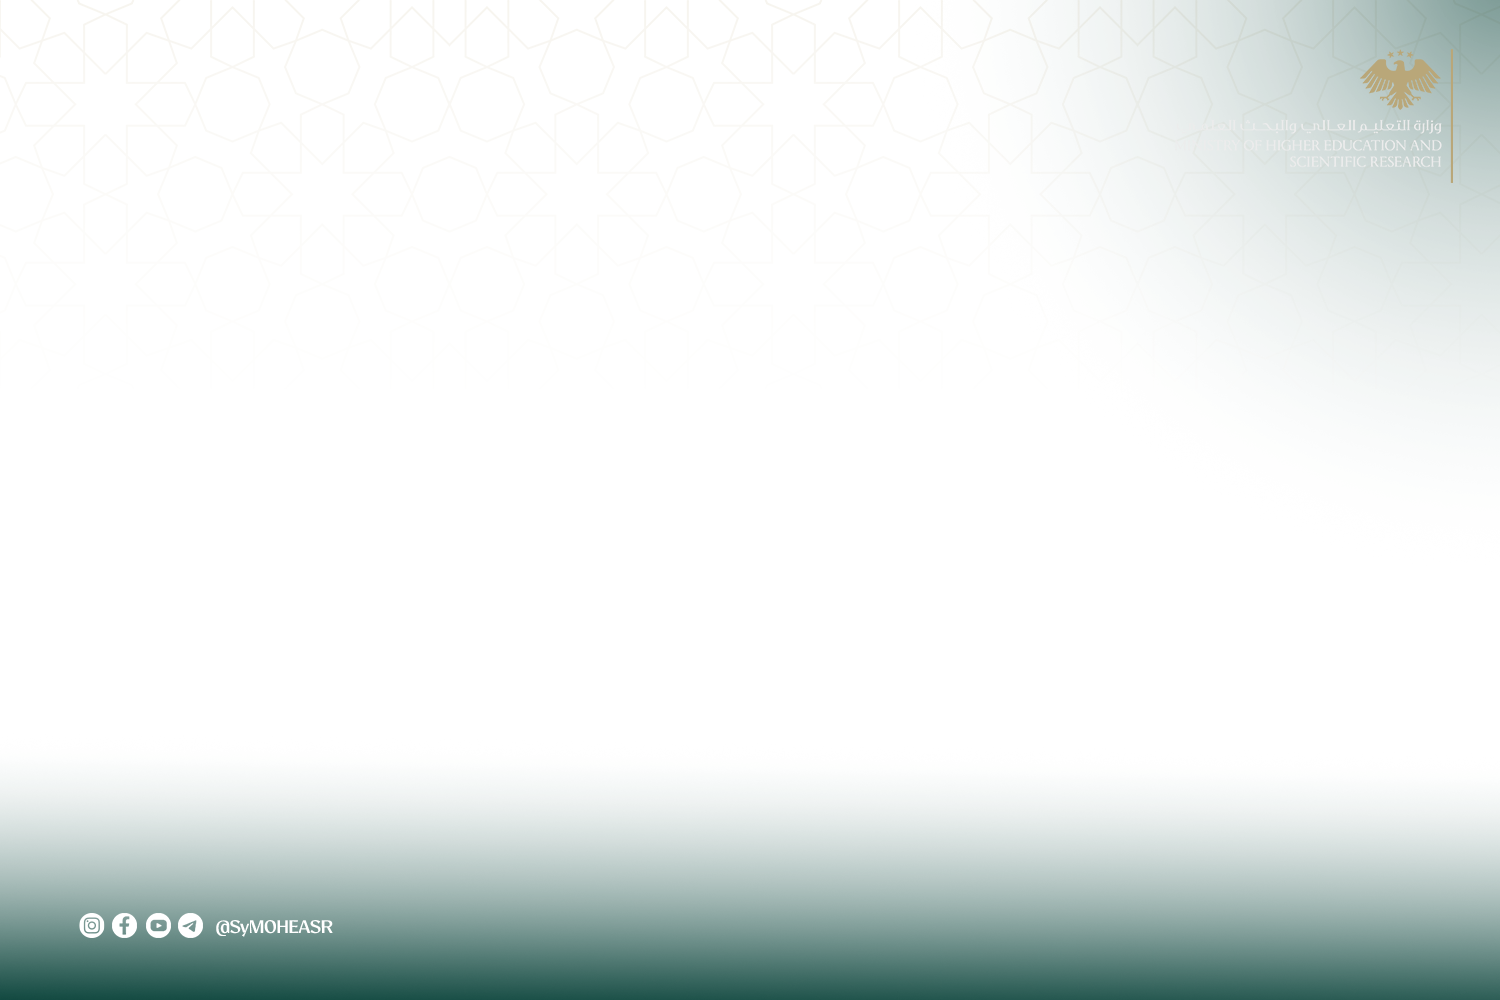
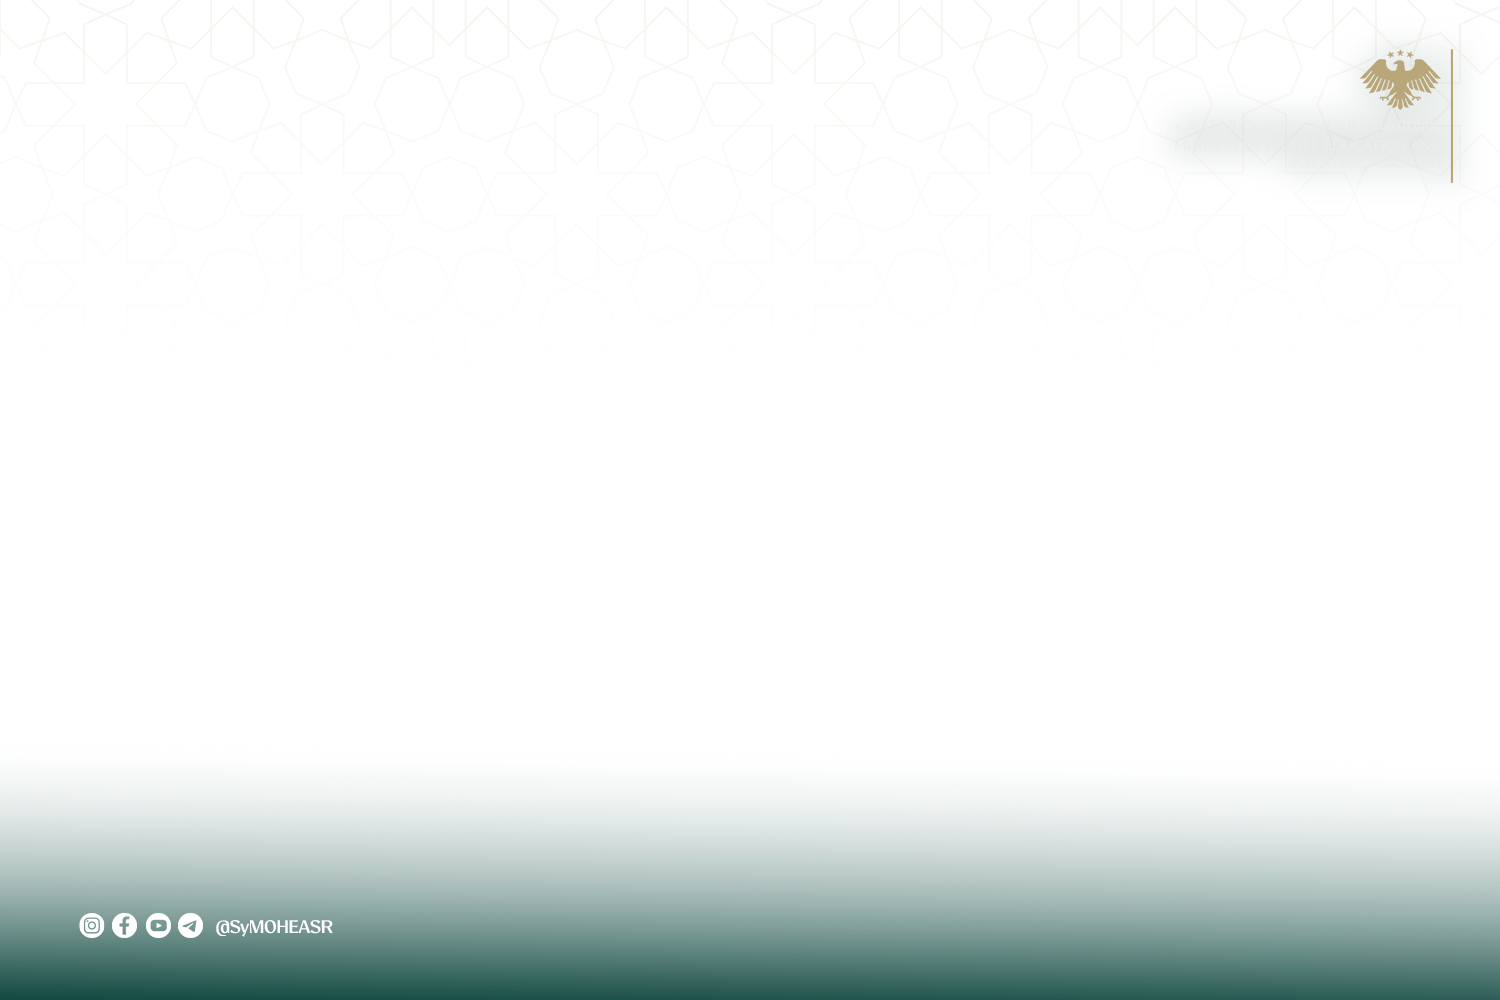
حتى 25 صورة، القالب الأفقي الجديد، وتحريك حر لصورة الغلاف (fit افتراضياً)
- CONFIG.maxPhotos = 25
- templates/landscape.png: نسخة المستخدم الجديدة (ظل خلف الشعار بدل تدرّج الزاوية)
- صورة الغلاف: fit افتراضياً، سحب حر، تكبير حتى ×5، والفراغ بخلفية ضبابية
- رفع ?v=10 وتحديث التوثيق

Changed region(s): [[0.7667, 0.0, 1.0, 0.341]]

diff --git a/app.js b/app.js
@@ -4,7 +4,7 @@
    الإعدادات
    ===================================================================== */
 const CONFIG = {
-  maxPhotos: 10,
+  maxPhotos: 25,
   jpegQuality: 0.92,
   telegram: {
     botToken: '8320697814:AAHELbyqp_6TiTbcJ-yjTWXx1qW9ySbS3yk',
@@ -116,21 +116,32 @@ const ICONS = {
 /* =====================================================================
    القص والتموضع
    crop = { zoom, cx, cy } ← (cx, cy) نقطة من الصورة (0..1) تقع في منتصف الإطار
+   free = true (الغلاف): zoom=1 يعني fit (الصورة كاملة داخل الإطار)، والتحريك حر بلا قيد الحواف
    ===================================================================== */
+const COVER_ZOOM_MAX = 5;
 function newCrop() { return { zoom: 1, cx: 0.5, cy: 0.5 }; }
+function newCoverCrop() { return { zoom: 1, cx: 0.5, cy: 0.5, free: true }; }
 
 function photoLayout(iw, ih, W, H, crop) {
-  const s = Math.max(W / iw, H / ih) * crop.zoom;
+  const base = crop.free ? Math.min(W / iw, H / ih) : Math.max(W / iw, H / ih);
+  const s = base * crop.zoom;
   const dw = iw * s;
   const dh = ih * s;
   let x = W / 2 - crop.cx * dw;
   let y = H / 2 - crop.cy * dh;
+  if (crop.free) return { x, y, dw, dh };
   x = dw >= W ? clamp(x, W - dw, 0) : (W - dw) / 2;
   y = dh >= H ? clamp(y, H - dh, 0) : (H - dh) / 2;
   return { x, y, dw, dh };
 }
 
 function normalizeCrop(item, crop, W, H) {
+  if (crop.free) {
+    // تحريك حر: يكفي أن يبقى منتصف الإطار فوق الصورة
+    crop.cx = clamp(crop.cx, 0, 1);
+    crop.cy = clamp(crop.cy, 0, 1);
+    return;
+  }
   const L = photoLayout(item.iw, item.ih, W, H, crop);
   crop.cx = (W / 2 - L.x) / L.dw;
   crop.cy = (H / 2 - L.y) / L.dh;
@@ -138,8 +149,8 @@ function normalizeCrop(item, crop, W, H) {
 
 function drawPhoto(ctx, item, W, H, crop, s, src) {
   const L = photoLayout(item.iw, item.ih, W, H, crop);
-  if (L.dw < W - 0.5 || L.dh < H - 0.5) {
-    // الصورة أصغر من الإطار: خلفية ضبابية من نفس الصورة
+  if (L.x > 0.5 || L.y > 0.5 || L.x + L.dw < W - 0.5 || L.y + L.dh < H - 0.5) {
+    // الصورة لا تغطي الإطار كله: خلفية ضبابية من نفس الصورة
     const base = Math.max(W / item.iw, H / item.ih);
     const bw = item.iw * base;
     const bh = item.ih * base;
@@ -792,7 +803,7 @@ async function addFiles(fileList) {
     .sort((a, b) => a.name.localeCompare(b.name, undefined, { numeric: true }));
   if (!files.length) { toast('اختر ملفات صور', 'error'); return; }
   const room = CONFIG.maxPhotos - state.items.length;
-  if (room <= 0) { toast(`الحد الأقصى ${CONFIG.maxPhotos} صور`, 'error'); return; }
+  if (room <= 0) { toast(`الحد الأقصى ${CONFIG.maxPhotos} صورة`, 'error'); return; }
   if (files.length > room) toast(`تمت إضافة ${room} صور فقط — الحد الأقصى ${CONFIG.maxPhotos}`, 'error');
 
   for (const file of files.slice(0, room)) {
@@ -808,7 +819,7 @@ async function addFiles(fileList) {
         ih: img.naturalHeight,
         orient: 'auto',
         crop: { landscape: newCrop(), portrait: newCrop() },
-        coverCrop: { landscape: newCrop(), portrait: newCrop() },
+        coverCrop: { landscape: newCoverCrop(), portrait: newCoverCrop() },
       };
       item.preview = makePreviewSource(img);
       state.items.push(item);
@@ -1193,7 +1204,7 @@ function initCoverEditor() {
   $('#btnCoverReset').addEventListener('click', () => {
     const item = coverItem();
     if (!item) return;
-    item.coverCrop[effectiveOrient(item)] = newCrop();
+    item.coverCrop[effectiveOrient(item)] = newCoverCrop();
     scheduleCover();
     scheduleGallery();
   });
@@ -1237,7 +1248,7 @@ function initCoverEditor() {
     const o = effectiveOrient(item);
     const F = COVER_FORMATS[o];
     const crop = item.coverCrop[o];
-    crop.zoom = clamp(crop.zoom * Math.exp(-e.deltaY * 0.0015), 0.5, 3);
+    crop.zoom = clamp(crop.zoom * Math.exp(-e.deltaY * 0.0015), 0.5, COVER_ZOOM_MAX);
     normalizeCrop(item, crop, F.w, F.h);
     scheduleCover();
     scheduleGallery();

diff --git a/index.html b/index.html
@@ -4,7 +4,7 @@
 <meta charset="UTF-8">
 <meta name="viewport" content="width=device-width, initial-scale=1.0">
 <title>دمج الصور مع القالب الرسمي</title>
-<link rel="stylesheet" href="app.css?v=9">
+<link rel="stylesheet" href="app.css?v=10">
 </head>
 <body>
 
@@ -38,7 +38,7 @@
       <input type="file" id="fileInput" accept="image/*" multiple hidden>
       <svg class="dz-icon" viewBox="0 0 24 24" aria-hidden="true"><path d="M12 16V4m0 0-4.5 4.5M12 4l4.5 4.5M4 15v3a2 2 0 0 0 2 2h12a2 2 0 0 0 2-2v-3" fill="none" stroke="currentColor" stroke-width="1.8" stroke-linecap="round" stroke-linejoin="round"/></svg>
       <strong>اسحب الصور إلى هنا أو اضغط للاختيار</strong>
-      <span>أي قياس — القالب الأفقي أو الطولي يُختار تلقائيًا حسب الصورة (حتى 10 صور)</span>
+      <span>أي قياس — القالب الأفقي أو الطولي يُختار تلقائيًا حسب الصورة (حتى 25 صورة)</span>
     </label>
 
     <div class="toolbar" id="photosToolbar" hidden>
@@ -119,7 +119,7 @@
         <div class="stage-tools">
           <div class="zoom">
             <span aria-hidden="true">−</span>
-            <input type="range" id="coverZoom" min="0.5" max="3" step="0.01" value="1" aria-label="تكبير صورة الغلاف">
+            <input type="range" id="coverZoom" min="0.5" max="5" step="0.01" value="1" aria-label="تكبير صورة الغلاف">
             <span aria-hidden="true">+</span>
           </div>
           <button type="button" class="btn btn-ghost btn-sm" id="btnCoverReset">إعادة الكادر</button>
@@ -164,6 +164,6 @@
 
 <div class="toast" id="toast" role="status" hidden></div>
 
-<script src="app.js?v=9"></script>
+<script src="app.js?v=10"></script>
 </body>
 </html>

diff --git a/CLAUDE.md b/CLAUDE.md
@@ -5,7 +5,7 @@
 > يقرأ Claude Code هذا الملف تلقائياً في كل محادثة جديدة داخل المجلد، من أي حساب. **لا كلمات سر فيه.**
 
 ## المشروع في فقرة
-أداة ويب ثابتة (HTML/CSS/JS بلا بناء وبلا سيرفر) لوزارة التعليم العالي والبحث العلمي (سوريا). المستخدم يرفع صوراً (حتى 10)، فتُدمج كل صورة مع **القالب الرسمي** (أفقي 1500×1000 أو طولي 1080×1440 حسب قياس الصورة)، ويمكنه اختيار صورة **غلاف** وكتابة عنوان عليها بأحد 6 أشكال، ثم **تنزيل** الصور أو **إرسالها لتلغرام**. **الاستضافة: GitHub Pages** من الفرع `main` (المسار `/`، بناء `legacy`) على https://osamaaz-dev.github.io/mohetemplates/ — أي تغيير **لا يظهر في الموقع إلا بعد دمجه في `main`** (الفروع وطلبات الدمج المفتوحة لا تُنشر). المستودع عام: `origin` = `osamaaz-dev/mohetemplates`.
+أداة ويب ثابتة (HTML/CSS/JS بلا بناء وبلا سيرفر) لوزارة التعليم العالي والبحث العلمي (سوريا). المستخدم يرفع صوراً (حتى 25)، فتُدمج كل صورة مع **القالب الرسمي** (أفقي 1500×1000 أو طولي 1080×1440 حسب قياس الصورة)، ويمكنه اختيار صورة **غلاف** وكتابة عنوان عليها بأحد 6 أشكال، ثم **تنزيل** الصور أو **إرسالها لتلغرام**. **الاستضافة: GitHub Pages** من الفرع `main` (المسار `/`، بناء `legacy`) على https://osamaaz-dev.github.io/mohetemplates/ — أي تغيير **لا يظهر في الموقع إلا بعد دمجه في `main`** (الفروع وطلبات الدمج المفتوحة لا تُنشر). المستودع عام: `origin` = `osamaaz-dev/mohetemplates`.
 
 ## طريقة العمل مع المستخدم
 - المستخدم يكتب بالعربية (لهجة شامية) ويريد الرد بالعربية؛ المعرّفات والمسارات تبقى كما هي.
@@ -42,6 +42,8 @@
 - التكبير بعجلة الماوس على معاينة الغلاف يحتاج Ctrl (حتى لا يعطّل تمرير الصفحة).
 - **توجيه تلغرام (آخر قرار 2026-10-26، يلغي ما قبله):** قسم الإنتاج (`chatId`) يستلم **كل شيء كصور (`sendPhoto`)**: الغلاف (1080×1920 / 1920×1080) + الصور بالقالب (1080×1440 / 1500×1000). المجموعة الثانية (`thumbChatId`) تستلم **الصور فقط بدون الغلاف، بدون قالب، كملفات (`sendDocument`)** بنفس القياسات (1080×1440 / 1500×1000). لا خانات Check للإرسال. «الصورة المصغرة» في كلام المستخدم كانت تعني الغلاف بعنوانه.
 - **المعاينة والتنزيل:** بطاقات الصور تُعاين بالقالب (`FORMATS`)، والغلاف بقياسه الوحيد `COVER_FORMATS` (طولي 1080×1920). `renderRegular(..., clean=true)` / `renderOutput(out, true)` = الصورة بدون قالب (للمجموعة الثانية فقط).
+- **تحريك صورة الغلاف حر (2026-10-28):** `coverCrop` = `newCoverCrop()` (`free: true`): `zoom=1` = **fit** (الصورة كاملة داخل الإطار، الافتراضي) والتكبير حتى `COVER_ZOOM_MAX` (5) للوصول إلى fill وأكثر؛ السحب بلا قيد حواف (فقط منتصف الإطار يبقى فوق الصورة)؛ الفراغ يُملأ بخلفية ضبابية من نفس الصورة (`drawPhoto`). الصور العادية بقيت fill مقيّد (`newCrop()`).
+- **القالب الأفقي** `templates/landscape.png` استُبدل (2026-10-28) بنسخة المستخدم الجديدة: بدون التدرّج الأخضر الكبير في الزاوية العليا، مع ظل خفيف خلف الشعار. الطولي لم يتغير.
 - **تحرير موضع النص:** خانة Check تحت معاينة الغلاف. مطفأة: السحب يحرّك الصورة. مفعّلة: السحب يحرّك كتلة العنوان بكل زخارفها (صندوق البطاقة، وسم الذهب، الخطوط…) والصورة تثبت، ويظهر إطار منقّط للمعاينة فقط. الإزاحة تُحفظ **لكل (اتجاه + شكل)** في `state.textPos` وتبقى في الذاكرة فقط (تُمسح بإعادة تحميل الصفحة)، وتُطبَّق أيضاً على التنزيل وعلى النسخة المصغرة. تُقيَّد لتبقى الكتلة على بعد 24px من حواف الغلاف. زر «إعادة موضع النص» يصفّرها.
 - **كيف يعمل التحريك تقنياً:** كل شكل في `app.js` يرسم الخلفيات الكاملة ثم يرسم كتلة النص داخل `runStack()` (أو `withTextShift()` للبطاقة)، وهي التي تُطبّق الإزاحة. أي شكل جديد يجب أن يرسم نصه عبرها ويستدعي `trackBounds()` لزخارفه حتى يُحسب الإطار والتقييد صحيحاً.
 

diff --git a/docs/PROGRESS.md b/docs/PROGRESS.md
@@ -3,10 +3,10 @@
 > سجل متتابع لكل ما تمّ، ليكمل أي حساب أو محادثة جديدة دون قراءة المشروع كاملاً.
 > **القاعدة:** بعد كل خطوة أضف بنداً في آخر «السجل» وحدّث «الحالة الآن». لا كلمات سر هنا.
 
-## الحالة الآن (آخر تحديث: 2026-10-26)
-- PR #1–#5 مدموجة (#5 = `e200ef1`، `?v=8`: الغلاف 1080×1920 وحده للمجموعة الثانية — المستخدم طلب التوقف بعد الدمج مباشرة، ثم أعطى المواصفات النهائية التالية).
-- **PR #6 دُمج (2026-10-26، `787138d`) والموقع يخدم `app.js?v=9`:** الغلاف الطولي 1080×1920 فقط؛ قسم الإنتاج يستلم كل شيء (الغلاف + الصور بالقالب) كصور؛ المجموعة الثانية الصور بدون قالب كملفات بدون الغلاف؛ لا خانة Check.
-- لم يُرسَل شيء حقيقي لتلغرام أثناء الاختبارات؛ **أول إرسال حقيقي لم يُجرَّب بعد**.
+## الحالة الآن (آخر تحديث: 2026-10-28)
+- الموقع منشور حتى PR #6 (`?v=9`): غلاف طولي 1080×1920 فقط؛ قسم الإنتاج كل شيء بالقالب مع الغلاف؛ المجموعة الثانية الصور بدون قالب كملفات بدون الغلاف.
+- **الجديد (مجرَّب محلياً، في PR بانتظار الدمج، الفرع `feat/25-photos-new-template-free-cover`، `?v=10`):** حتى 25 صورة؛ القالب الأفقي الجديد؛ صورة الغلاف fit افتراضياً وتتحرك بحرية (تكبير حتى ×5).
+- **أول إرسال حقيقي لتلغرام لم يُجرَّب بعد** (مع 25 صورة = 51 رسالة؛ `tgCall` ينتظر تلقائياً عند 429).
 
 ## الخطوات التالية
 1. (تمّ) دمج PR #4 والتأكد أن الموقع يخدم `?v=7` (تحققت من `app.js` المنشور ومن `chkCoverOriginal` في الصفحة؛ Pages بنى `ca6df7e`).
@@ -83,3 +83,10 @@
 - ما تغيّر (`app.js`): `COVER_FORMATS.portrait` = 1080×1920 وحُذف `THUMB_COVER_FORMATS` و`makeThumb` و`state.sendCoverOriginal`؛ `renderRegular` عاد بخيار `clean`؛ دالة `sendDocument` جديدة؛ `sendAllToTelegram`: كل ناتج → `sendPhoto` لقسم الإنتاج، والصور فقط → `sendDocument` بدون قالب للمجموعة الثانية (التعليق «الصورة رقم N — بدون قالب»). `index.html`: حذف الخانة، تلميح الزر، `?v=9`. `app.css`: حذف `.ab-check`.
 - التحقق (اعتراض `fetch`): 5 طلبات لغلاف + صورتين: `sendPhoto` قسم الإنتاج 00-cover 1080×1920، 01 1080×1440، 02 1500×1000؛ `sendDocument` المجموعة الثانية 01 1080×1440 و02 1500×1000 بدون قالب؛ فحص بصري للنواتج؛ معاينة الغلاف 503×894 والعنوان «غلاف طولي 1080×1920»؛ الخانة غير موجودة؛ `node --check` نظيف.
 - بعد الدمج: Pages بنى `787138d` والموقع يخدم `?v=9` (تحققت من `sendDocument` في `app.js` المنشور). ما بقي: أول إرسال حقيقي (خصوصاً `sendDocument` — حد تلغرام للملفات 50MB، لا مشكلة بقياساتنا).
+
+### 2026-10-28 — 25 صورة، قالب أفقي جديد، وتحريك حر لصورة الغلاف
+- الطلب: القالب يستقبل أكثر من 10 صور (25)؛ «وهي صور القالب الجديد» (أرفق صورة القالب الأفقي فقط 1500×1000)؛ تحرير أكبر لصورة الغلاف: لا يُشترط fit أو fill، والافتراضي fit.
+- ما تغيّر: `CONFIG.maxPhotos` = 25 ونص منطقة الرفع؛ `templates/landscape.png` = الملف المرفق (يختلف عن القديم فقط في المنطقة 913..1500 × 0..572: حُذف تدرّج الزاوية وأضيف ظل خلف الشعار — قارنتهما على خلفية رمادية)؛ `newCoverCrop()` + `free` في `photoLayout/normalizeCrop`، وشرط الخلفية الضبابية صار «الصورة لا تغطي الإطار»؛ `COVER_ZOOM_MAX` = 5 (السلايدر والعجلة)؛ `?v=10`.
+- التحقق: رفع 27 صورة ← أُضيفت 25 («25 من 25»)؛ صورة أفقية في غلاف طولي تظهر كاملة (fit: x=0,y=600, 1080×720)؛ سحب حقيقي بالماوس حرّكها خارج الحافة (cx 0.81, cy 1 مقيّد)؛ الصور العادية ما زالت fill؛ ناتج صورة أفقية بالقالب الجديد 1500×1000؛ لا أخطاء console؛ `node --check` نظيف.
+- ملاحظة: `sed -i` في Git Bash حوّل `app.js` إلى LF — أعدته CRLF بسكربت. لا تستعمل `sed -i` على ملفات المشروع.
+- ما بقي: دمج الـPR؛ هل يوجد قالب طولي جديد أيضاً؟ (لم يُرفق).
